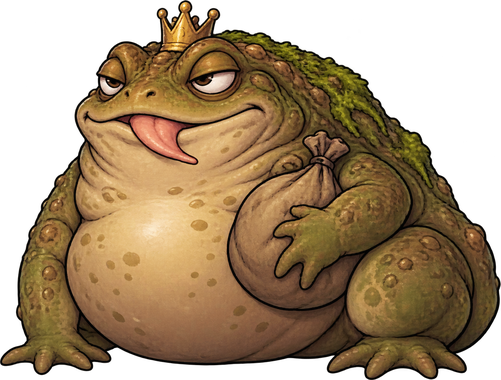
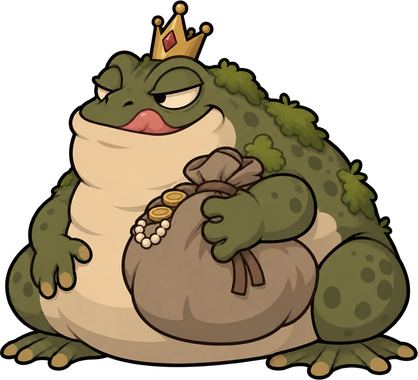
Redraw the four enemies in Kai's battle-sprite style, facing left for side-view battles
- slime, goblin, mushroom and toad king redrawn with the 3.5-head battle sprite as style reference
- enemies stand on the right and face left; side-view mockups for a field and a boss battle
- art recipes: enemy rule and new image ids

Claude-Session: https://claude.ai/code/session_01WFgBYsqnPjwxzhWx9BLhU6

diff --git a/mosshill/tools/art_recipes.md b/mosshill/tools/art_recipes.md
@@ -43,7 +43,8 @@
 | 장소 안 인물 1) 장면 | 그 장소 배경 | (2) 그 인물 몸 = 얼굴·옷 (3) 카이 = 그림체 — 배경에 인물을 함께 그림 (자세·위치 기준). 프롬프트에 **가구 높이와 키를 cm 로** 쓴다. 그래도 AI 는 인물을 1.4~2배 크게 그리므로 `art_scenes.json` 의 `check` 로 재고 `scale` 로 줄인다 |
 | 장소 안 인물 2) '하던 일' | **그 인물의 대화 그림** (얼굴·머리카락·비율을 지키는 대상) | (2) 1) 장면 또는 예전 그림 = 자세·동작만 ('얼굴·눈·머리카락·비율은 따라 하지 말 것'). 머리는 그대로 두고 팔·손·소품만 바꾸고, 시선만 하던 일 쪽으로. 앉은 자세도 '머리 크기·위치는 그대로, 몸은 그 아래에'. **단, 대화 그림과 구도가 다른 자세(앉은 전신 등)는** 비율이 맞는 그림(예전 장면 그림)을 고칠 대상으로 두고 얼굴·머리카락·옷만 대화 그림을 따르게 한다 |
 | 장소 안 인물 '앞을 봄' | 고개 각도가 대화 그림과 같으면 그리지 않는다 | 대화 그림의 얼굴(CHARS face_box)을 가공 단계가 그대로 옮겨 붙인다 (`look_from: profile`). **고개를 숙이는 등 각도가 다르면** 2) 그림을 정밀 모드로 눈·입만 바꾼다 (얼굴을 옮기면 눈·코·턱이 머리와 어긋남) |
-| 적·아이템 | 루비 | (2) 배경 1장 = 색감 |
+| 적 | 카이 전투 그림 `img_mwowkjbqz34hCgSu` = 화풍(사람형 적은 3.5등신 비율도) | 하나만 넣고 디자인은 글로 자세히. **좌우 전투라 적은 오른쪽에 서서 왼쪽을 본다.** 투명 배경 |
+| 아이템 | 루비 | (2) 배경 1장 = 색감 |
 
 ## 3. 프롬프트 틀 (영어로, 빠짐없이)
 
@@ -118,6 +119,9 @@
 | 광장 핍 (술통 포함) | `img_mwk6owfupJ7J4qRB` / `img_mwk6zn45hSa75y0G` |
 
 | 지도 장식 (구름 3 + 갈매기 날갯짓 4단계, 투명 배경 한 장) | `img_mwn4x49yTdbjTHoJ` — 지도를 화풍 견본으로. `art_pipeline.py mapfx` 가 잘라 크기를 맞춤 |
+
+| 적 (카이 전투 그림 화풍, 왼쪽을 봄) — 슬라임 / 고블린 / 독버섯 / 두꺼비 왕 | `img_mwoyxiftap1UjEjq` / `img_mwoyxp3hhynICtxE` / `img_mwoyxwc0RbON4xf5` / `img_mwoyy5qzwO0t0cxj` |
+| 카이 전투 그림 (3.5등신, 오른쪽을 봄) | `img_mwowkjbqz34hCgSu` |
 
 이미지 서버 제한: **하루 100회, 분당 6회**. 여러 장은 6장씩 나눠 보낸다.
 

diff --git a/mosshill/concept_art/srpg/README.md b/mosshill/concept_art/srpg/README.md
@@ -9,7 +9,10 @@
 | `kai_battle35_1.png` | **채택** — 오른쪽을 보고 칼을 낮게 듦 (이미지 서버 `img_mwowkjbqz34hCgSu`). `_160` / `_128` 은 키 160·128px |
 | `kai_battle35_2.png` | 다른 후보 — 왼쪽을 봄 (`img_mwowklc3axGx8pii`) |
 | `kai35_compare.png` | 2.5등신 A안과 3.5등신 두 후보 비교 |
-| `sideview_mock.png` | 좌우 전투 화면 구도 시험 — 아군 왼쪽 / 적 오른쪽 (적 그림은 좌우를 뒤집어 왼쪽을 보게, 크기는 아직 안 맞춤) |
+| `sideview_mock.png` | 좌우 전투 화면 구도 시험 — 아군 왼쪽(오른쪽을 봄) / 적 오른쪽(왼쪽을 봄). 적은 새 화풍 그림, 카이 키 160px 기준 크기 (고블린 135, 독버섯 95, 슬라임 70) |
+| `sideview_boss.png` | 보스 전투 구도 시험 — 두꺼비 왕 키 300px |
+
+적 그림은 게임(`game/images/enemies/`)에 바로 넣었다 — 카이 전투 그림을 화풍 견본으로 다시 그림 (`tools/art_recipes.md`).
 
 그린 방법: 2.5등신 A안(1번)과 카이 대화 그림(2번)을 견본으로, 3.5등신(머리를 작게, 팔다리를 길게), 왼쪽을 보는 3/4 방향, 칼을 앞으로, 투명 배경.
 
